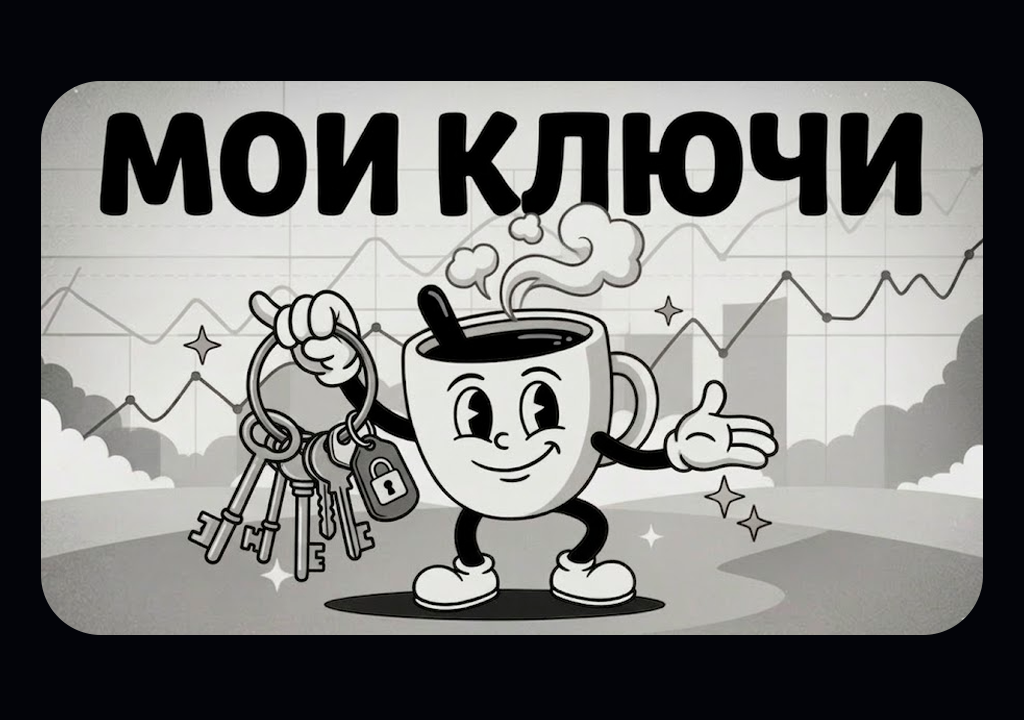
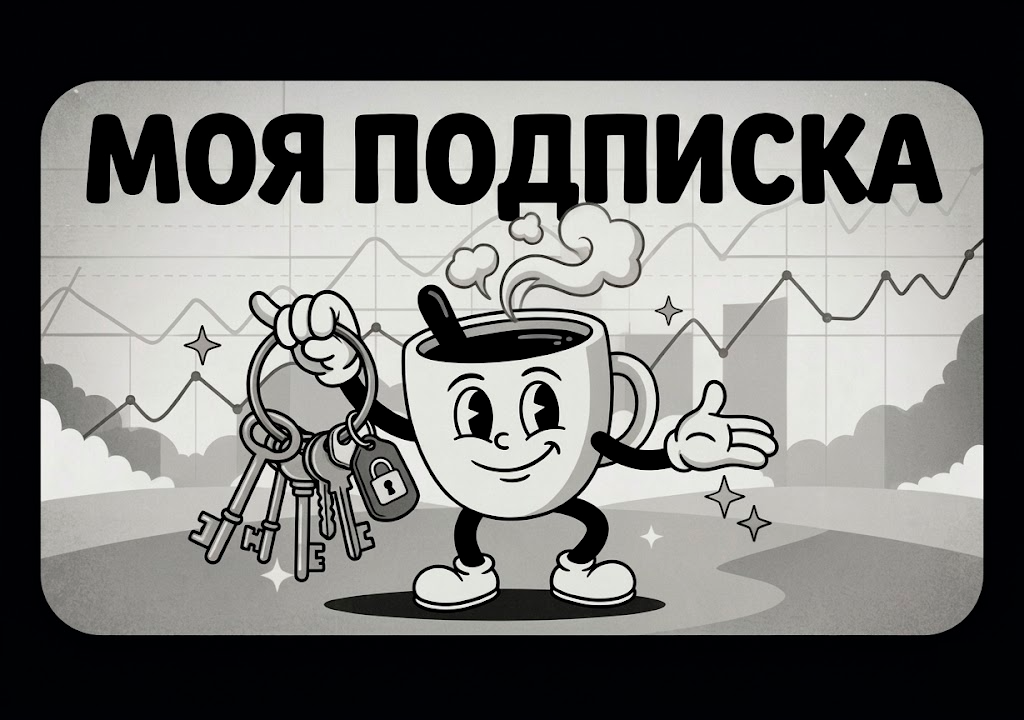
added

diff --git a/main.py b/main.py
@@ -6,6 +6,7 @@ from aiogram.filters import CommandStart
 from aiogram.types import Message, CallbackQuery, invoice, LabeledPrice, FSInputFile, MessageEntity
 from aiogram.types import InlineKeyboardMarkup, InlineKeyboardButton, ChatMember
 import asyncio # для работы с асинхронными функциями
+import html
 import sqlite3 as sq
 import requests
 import dotenv
@@ -58,7 +59,6 @@ def _vpn_response_user_already_exists(payload):
 
 
 def fetch_vpn_subscription_url_after_purchase(tg_id: int):
-    """Создаёт пользователя в API; если username занят — продлевает (PATCH). Возвращает subscriptionUrl или None."""
     created = vpn.create_new_user(tg_id)
     url = _vpn_response_subscription_url(created)
     if url:
@@ -68,14 +68,17 @@ def fetch_vpn_subscription_url_after_purchase(tg_id: int):
         return _vpn_response_subscription_url(renewed)
     return None
 
-
-VPN_SUBSCRIPTION_MESSAGE_HTML = (
-    "🔑 <b>Твоя подписка КОФЕМАНИЯ VPN</b>\n"
-    "\n"
-    "☕️ Мы автоматически установим ключ в приложении HAPP\n"
-    "\n"
-    "🚀 Нажми кнопку ниже — и всё настроится за тебя\n"
-)
+def vpn_subscription_message_html(url: str) -> str:
+    return (
+        "🔑 <b>Твоя подписка КОФЕМАНИЯ VPN</b>\n"
+        "\n"
+        "☕️ Мы автоматически установим ключ в приложении HAPP\n"
+        "\n"
+        "🚀 Нажми кнопку ниже — и всё настроится за тебя\n"
+        "\n"
+        "Если хочешь воспользоваться другим клиентом, то копируй ссылку:\n"
+        f"<code>{url}</code>"
+    )
 
 
 ### РАБОТА С ФОТКАМИ:
@@ -333,8 +336,9 @@ async def plan_trial(callback: CallbackQuery):
             print(f'Ошибка при выдаче подписки (trial): {e}')
         if url:
             try:
-                await callback.message.answer(
-                    VPN_SUBSCRIPTION_MESSAGE_HTML,
+                await callback.message.answer_photo(
+                    MY_KEYS_PHOTO,
+                    caption=vpn_subscription_message_html(url),
                     parse_mode='HTML',
                     reply_markup=create_ikb_sub_after_buy(url),
                 )
@@ -408,7 +412,7 @@ async def check_payment_yookassa_callback(callback: CallbackQuery): # сюды
         if url:
             try:
                 await callback.message.answer(
-                    VPN_SUBSCRIPTION_MESSAGE_HTML,
+                    vpn_subscription_message_html(url),
                     parse_mode='HTML',
                     reply_markup=create_ikb_sub_after_buy(url),
                 )